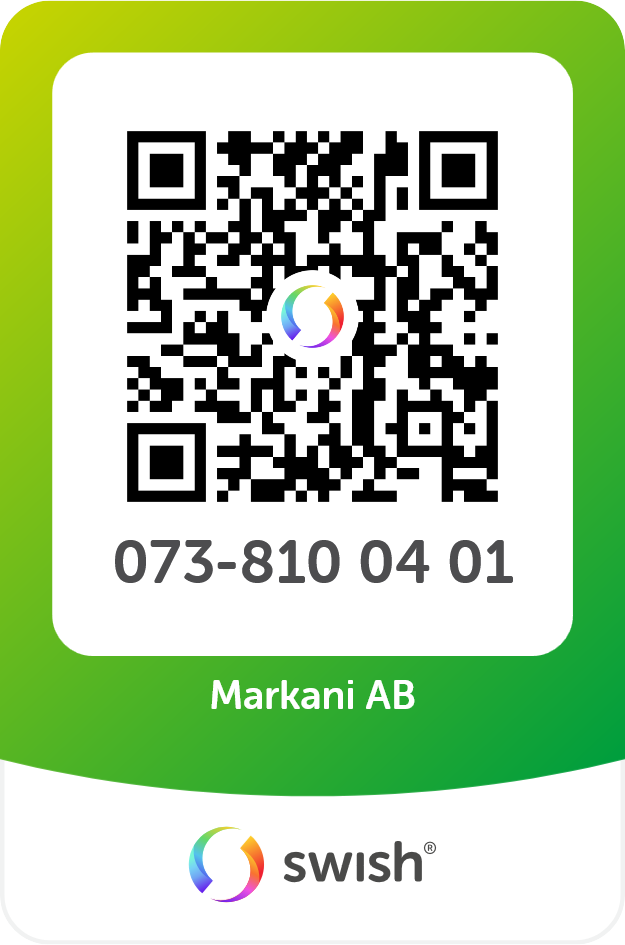
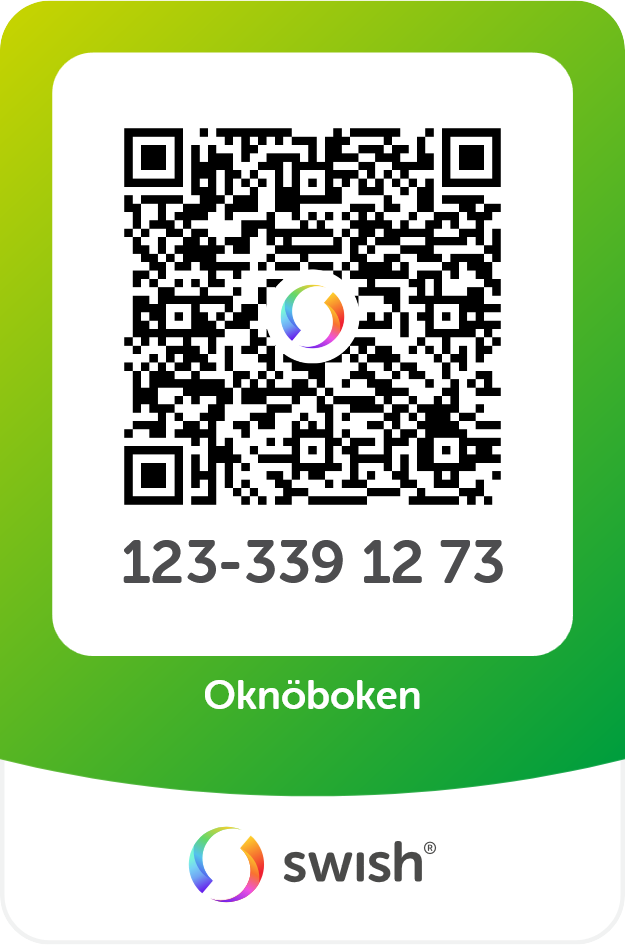
Add correct swish image and link

Changed region(s): [[0.1824, 0.1228, 0.8208, 0.6138], [0.3344, 0.7058, 0.6688, 0.7672]]

diff --git a/src/components/Order/Order.tsx b/src/components/Order/Order.tsx
@@ -43,6 +43,7 @@ const Order = () => {
   });
 
   const totalPrice = basePrice * Number(formData.bookAmount); // Multiply base price by book amount
+  const swishLink = `swish://paymentrequest?version=1&payee=1231181189&amount=${totalPrice}&message=Okn%C3%B6boken%20-%20Best%C3%A4llning%20fr%C3%A5n%20lizettavonsmil.se`;
 
   const [errors, setErrors] = useState({
     name: "",
@@ -320,7 +321,7 @@ const Order = () => {
                     </p>
                     <ul className="list-disc list-inside text-sm text-gray-700">
                       <li>
-                        Mottagare nummer: <strong>12324424</strong>
+                        Mottagare nummer: <strong>1233391273</strong>
                       </li>
                       <li>
                         Belopp: <strong>{totalPrice} SEK</strong>
@@ -336,9 +337,12 @@ const Order = () => {
                       <p className="text-sm leading-relaxed max-w-xs">
                         Om Swish är installerat på denna enhet kan du klicka
                         här:{" "}
-                        <strong className="text-[#3b4d2c] cursor-pointer hover:underline">
-                          Betala med Swish
-                        </strong>
+                        <a
+                          href={swishLink}
+                          className="inline-block mt-2 px-4 py-2 bg-green-600 text-white font-semibold rounded-lg shadow hover:bg-green-700 transition"
+                        >
+                          Swisha {totalPrice} kr
+                        </a>
                       </p>
                     </div>
                   </div>
